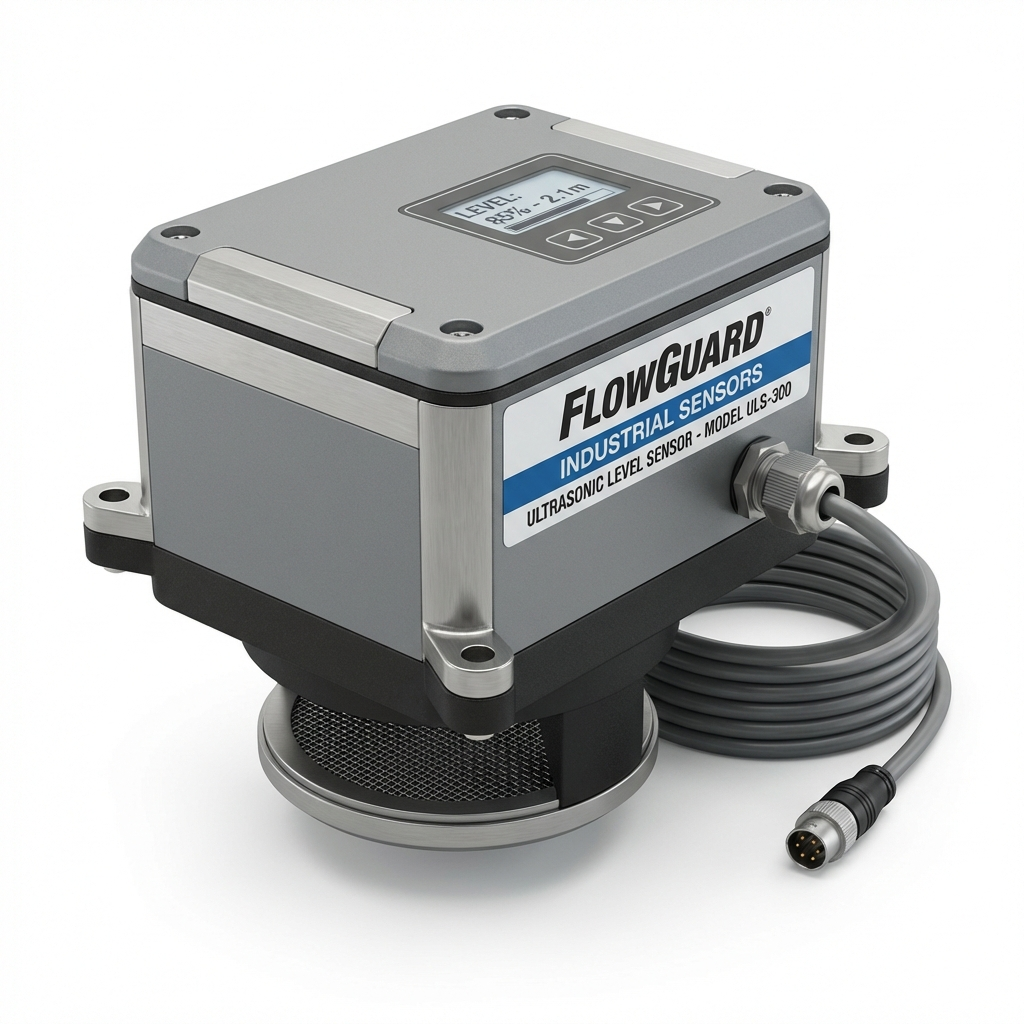
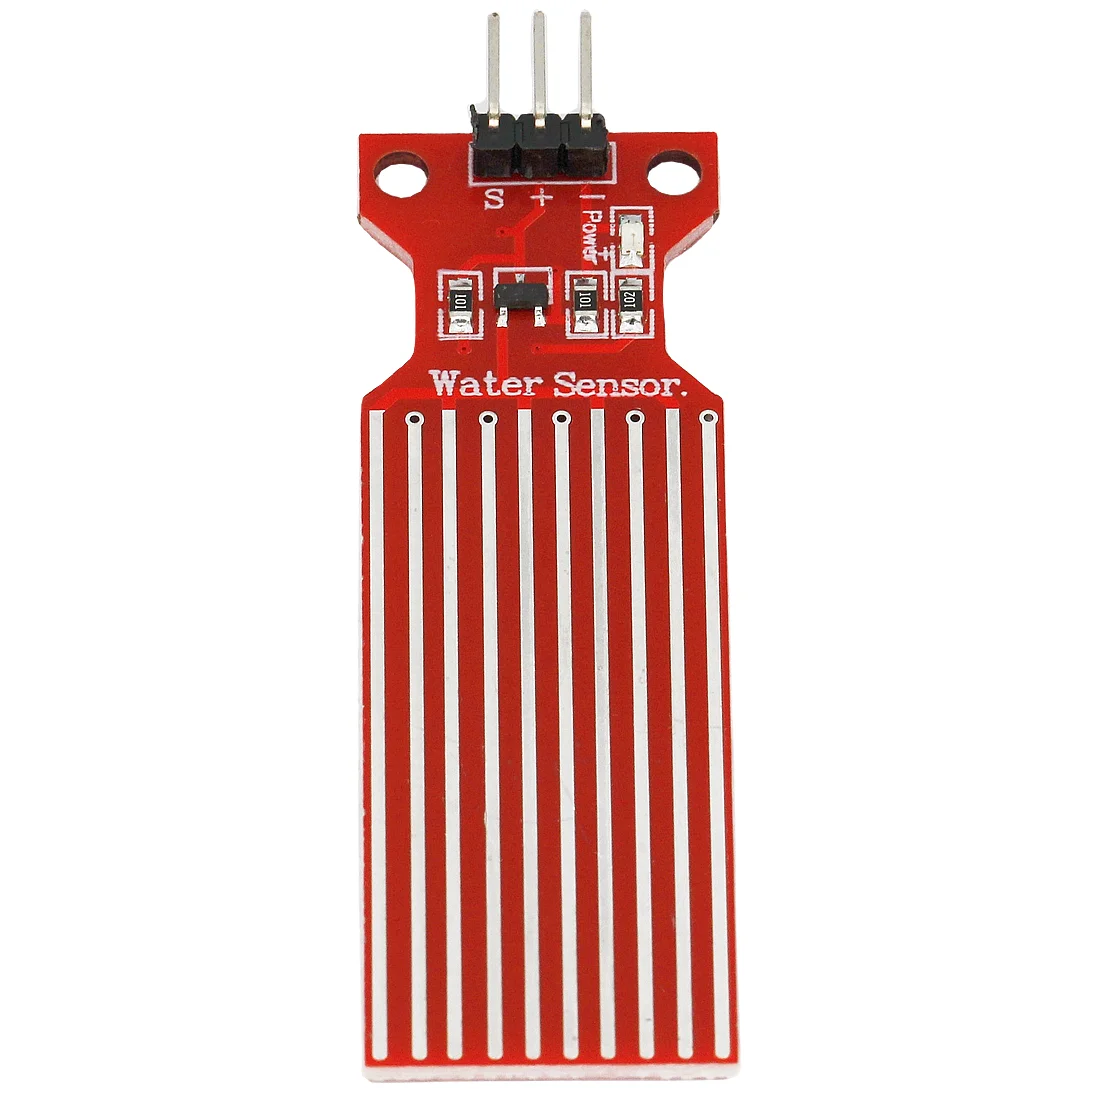
Mise à jour image capteur page documentation

diff --git a/CamerFarmAI/src/app/DocumentationPage.tsx b/CamerFarmAI/src/app/DocumentationPage.tsx
@@ -21,11 +21,11 @@ import { TranslationKey } from '@/utils/translations';
 import { IconType } from 'react-icons';
 import styles from './DocumentationPage.module.css';
 
-import sensorTempImg from '@/assets/sensors/sensor_temperature.png';
-import sensorSoilImg from '@/assets/sensors/sensor_soil_moisture.png';
+import sensorTempImg from '@/assets/sensors/sensor_temperature.jpg';
+import sensorSoilImg from '@/assets/sensors/sensor_soil_moisture.jpg';
 import sensorCo2Img from '@/assets/sensors/sensor_co2.png';
 import sensorWaterImg from '@/assets/sensors/sensor_water_level.png';
-import sensorLuminosityImg from '@/assets/sensors/sensor_luminosity.png';
+import sensorLuminosityImg from '@/assets/sensors/sensor_luminosity.jpg';
 
 interface DocumentationSection {
   id: string;
@@ -135,7 +135,7 @@ export function DocumentationPage() {
                 </h2>
                 <div className={styles.docsPage__sectionContent}>
                   <div className={styles.docsPage__imageContainer}>
-                    <img src={sensorTempImg} alt="Capteur de température" className={styles.docsPage__sensorImage} />
+                    <img src={sensorTempImg} alt="Capteur DHT22" className={styles.docsPage__sensorImage} />
                   </div>
                   <h3>{t('docs.temperature.title')}</h3>
                   <p>{t('docs.temperature.description')}</p>